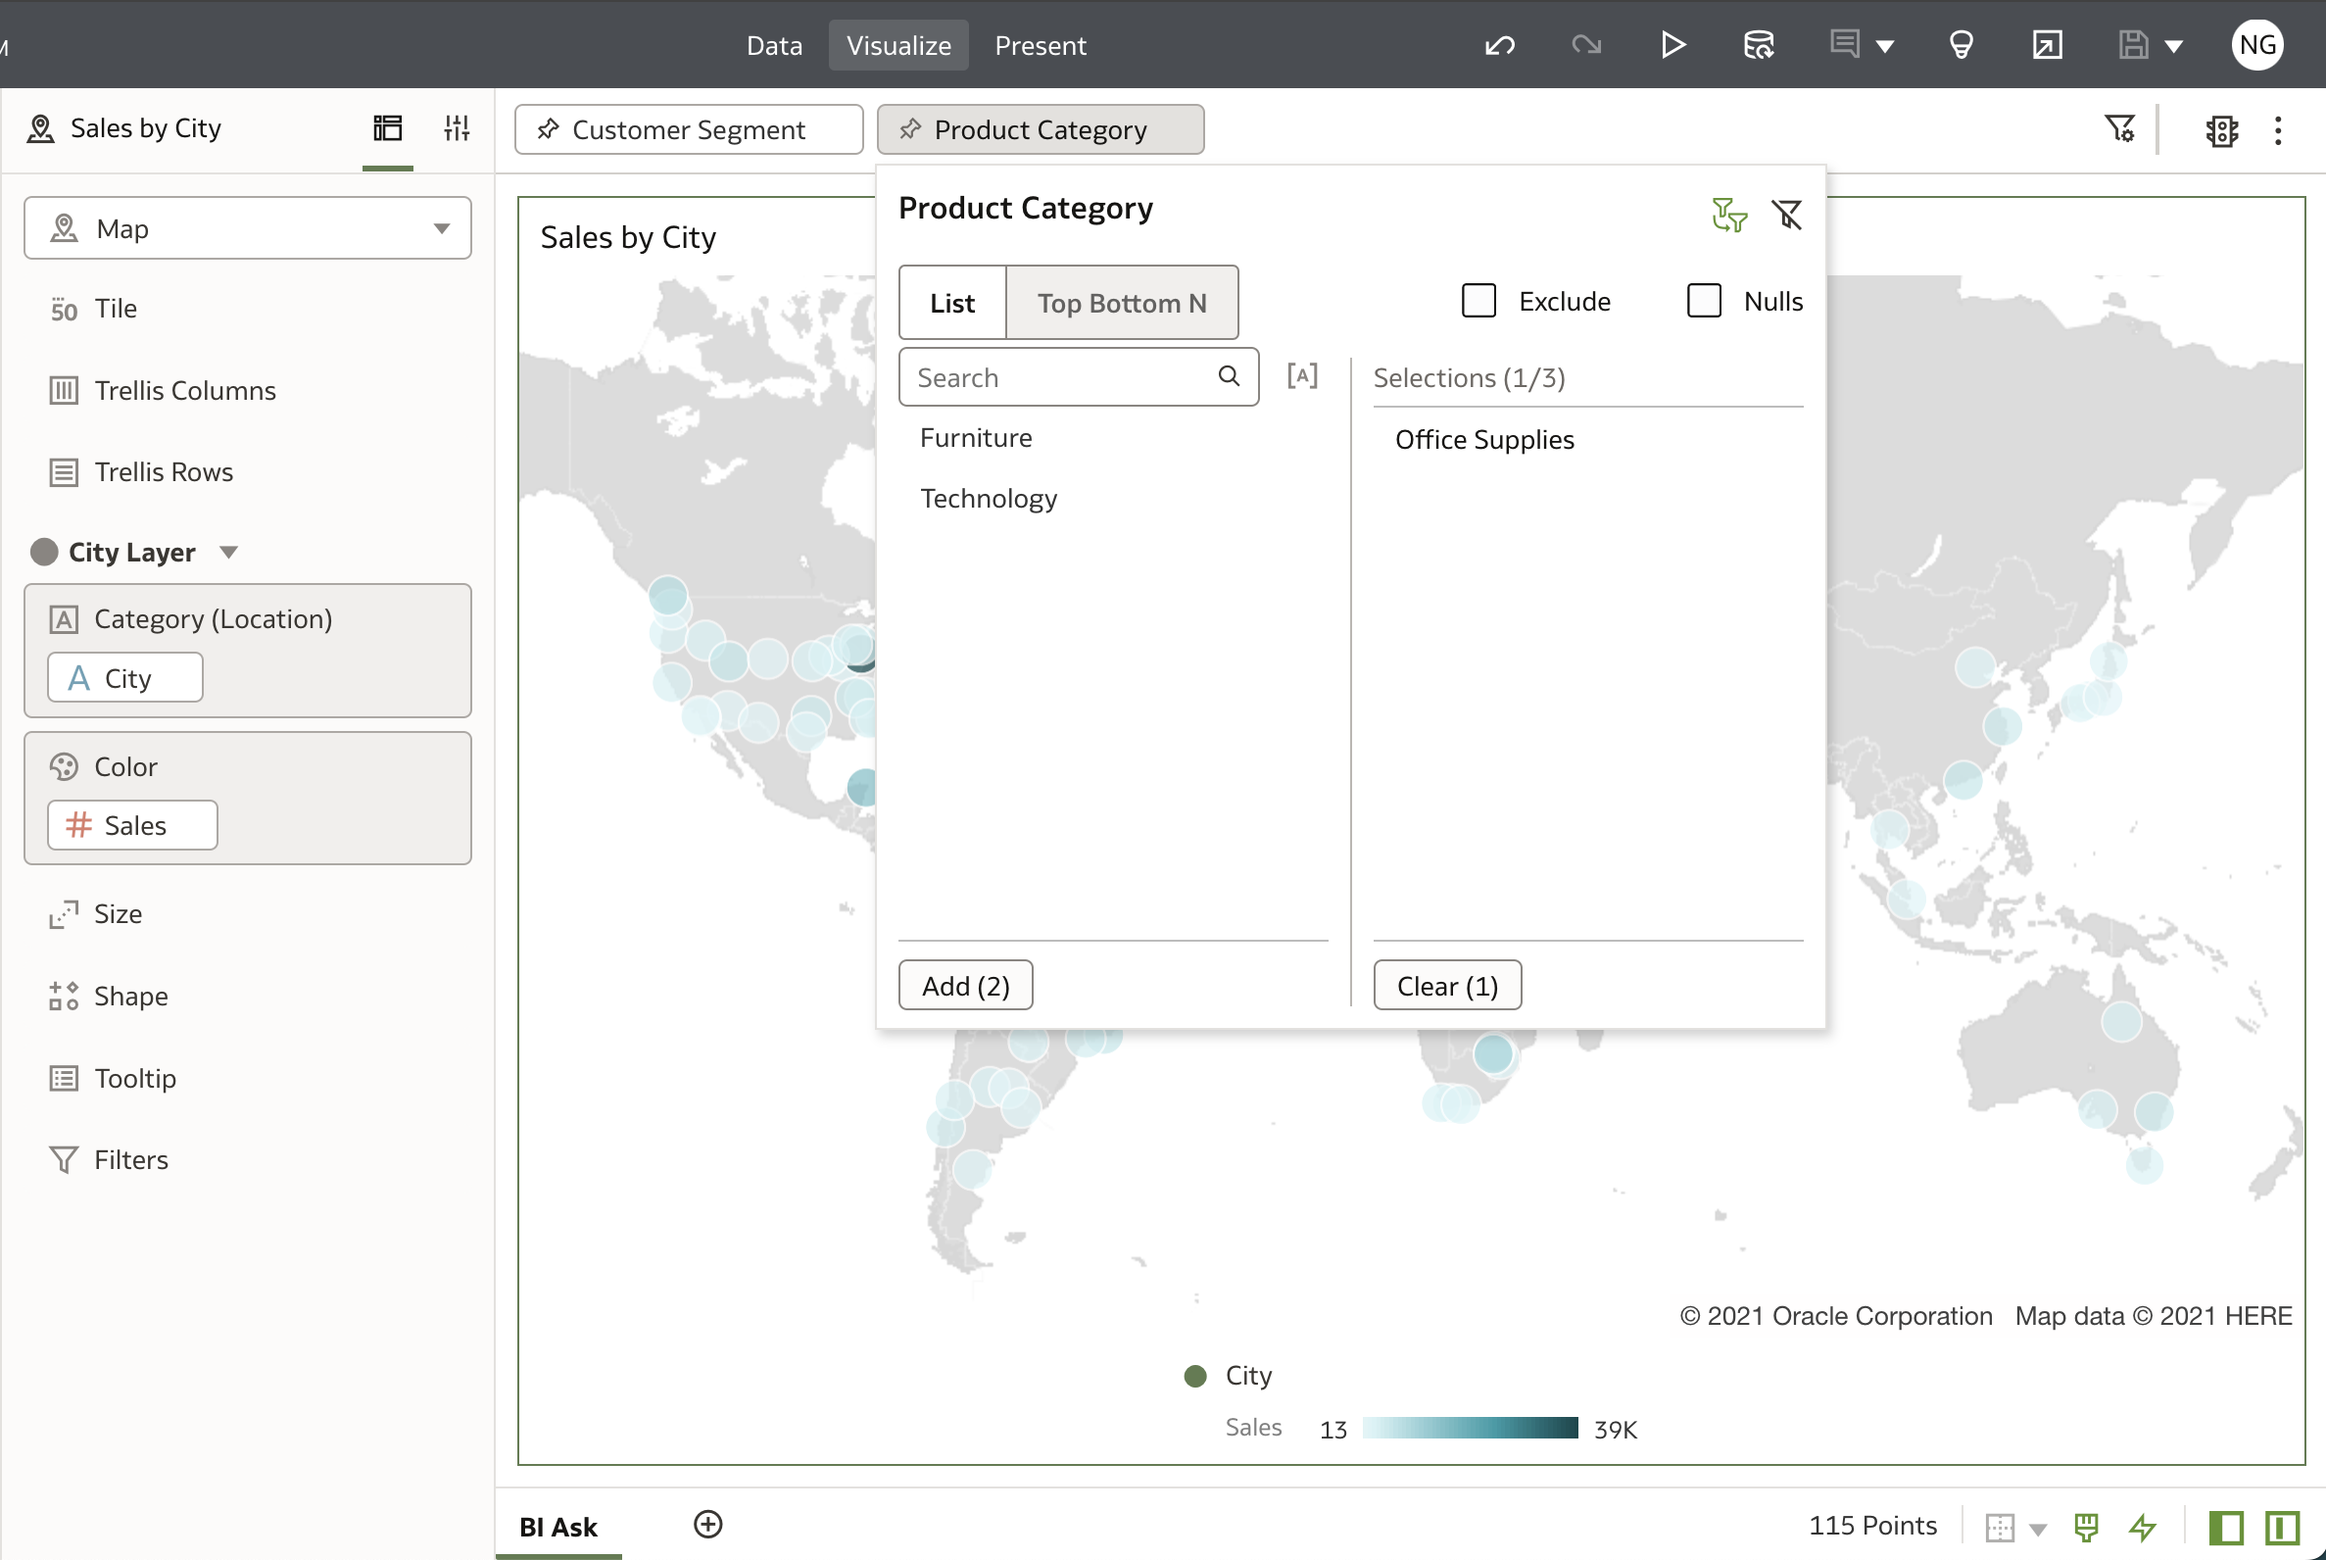
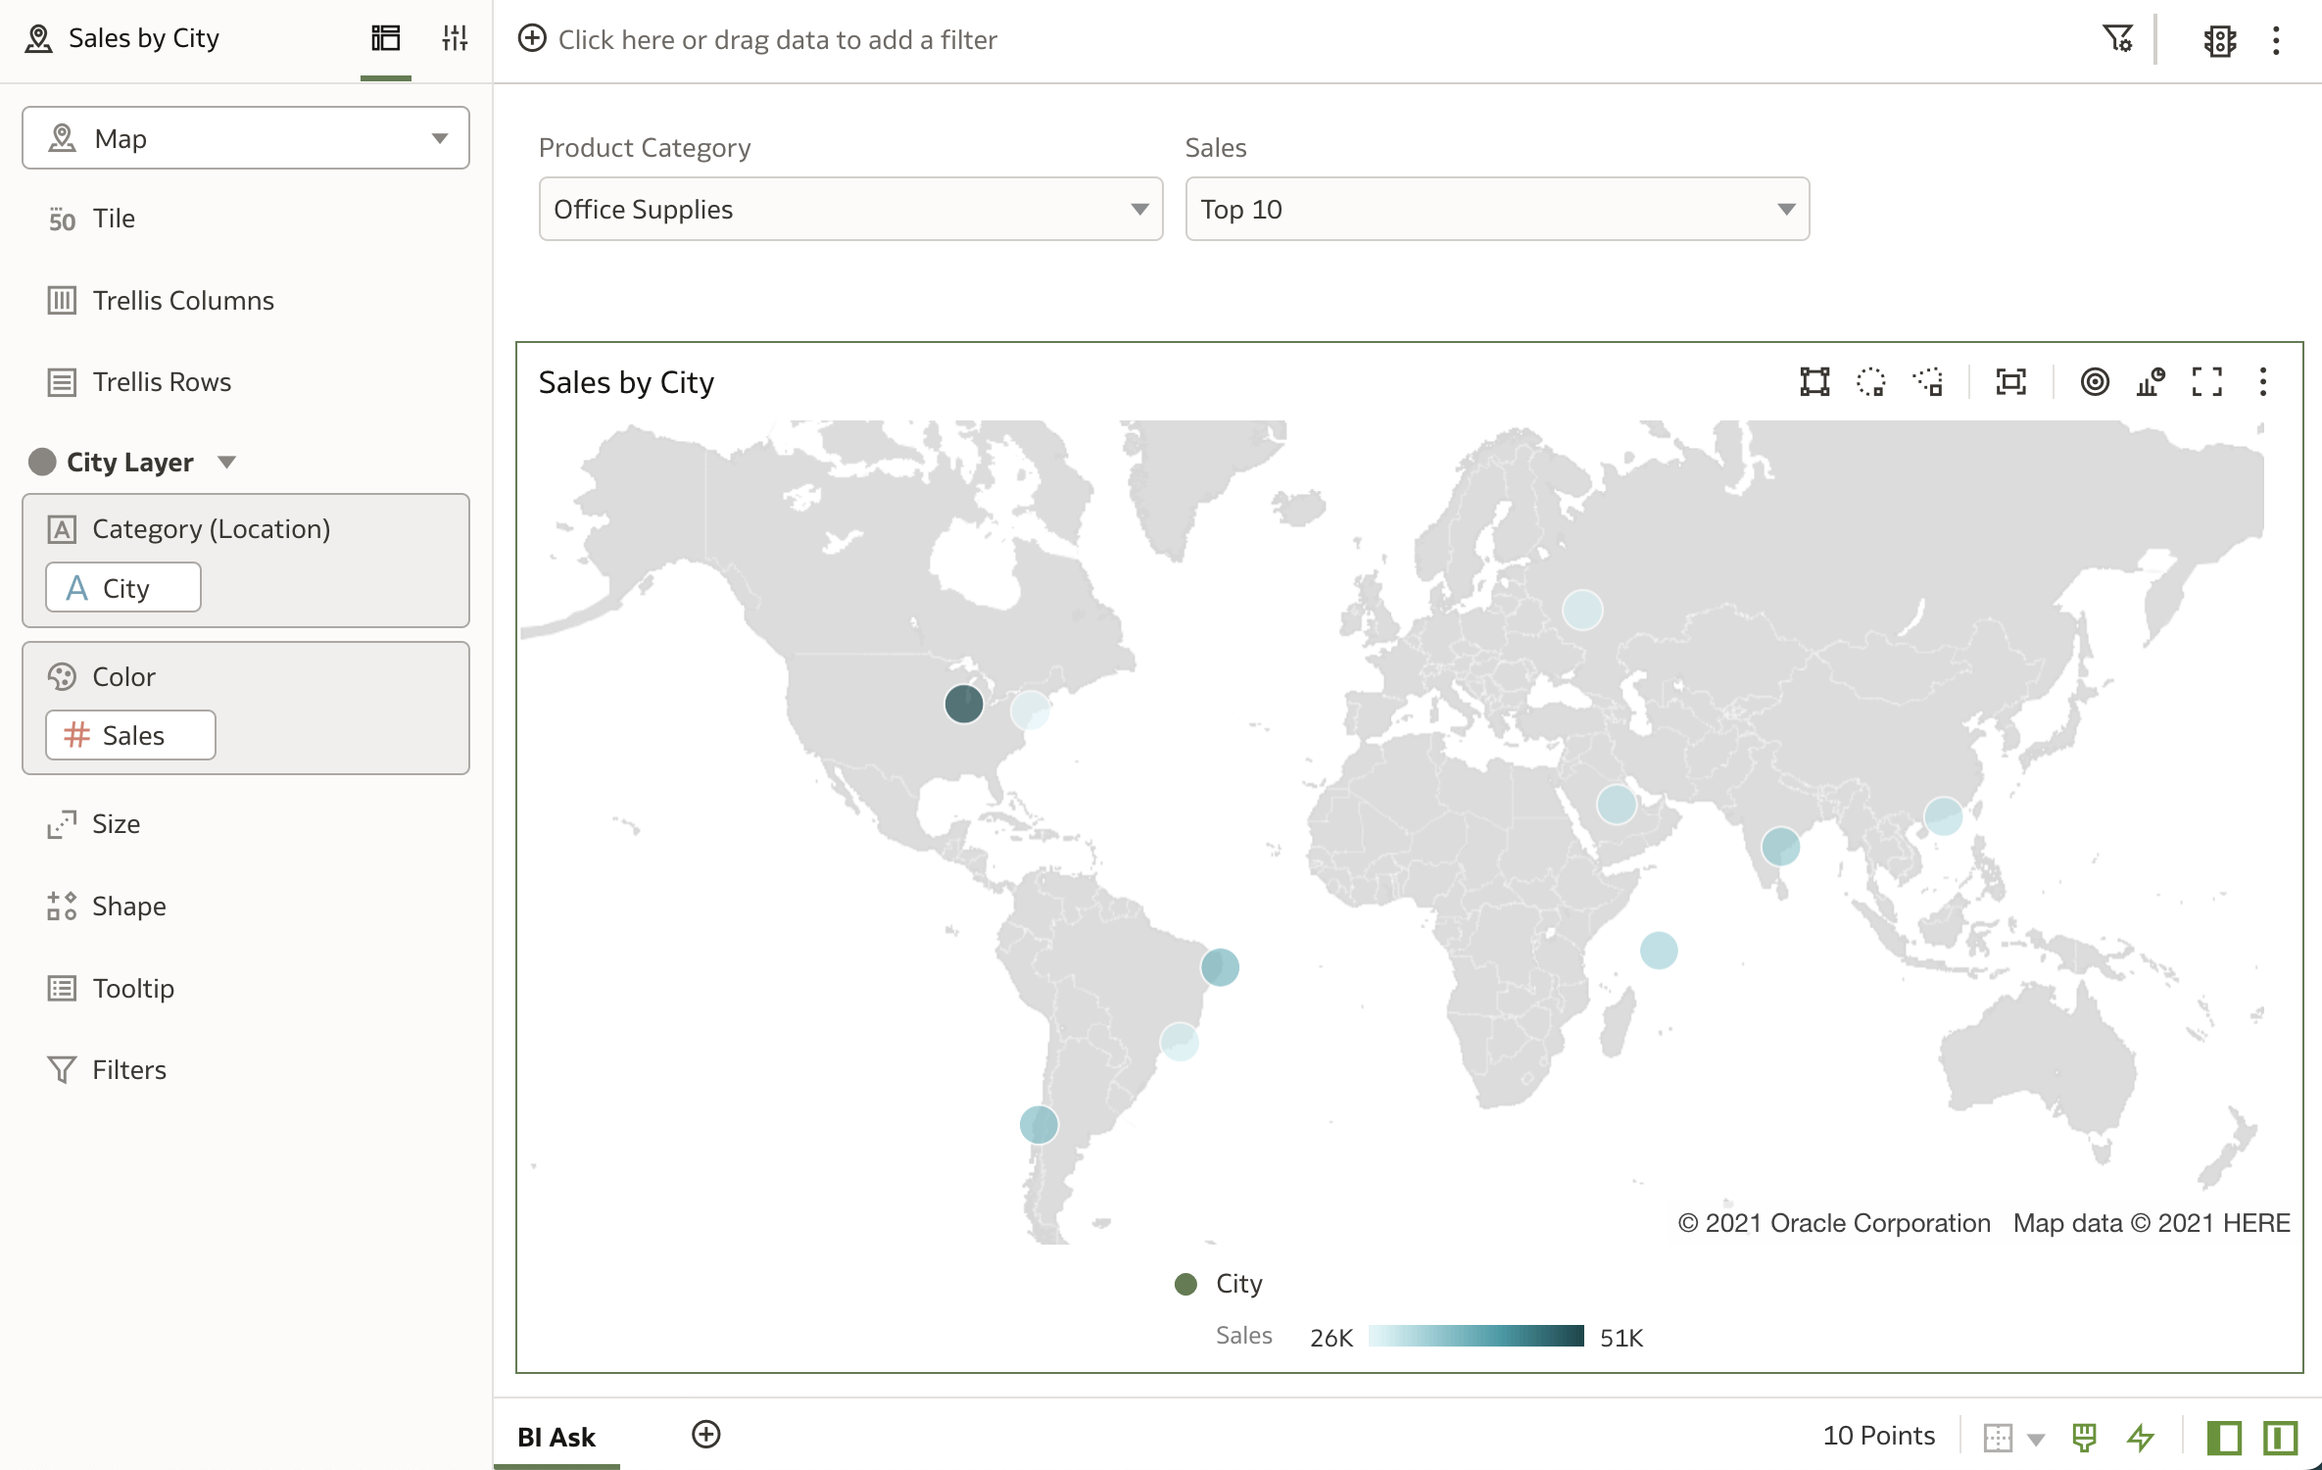
No WMS ID: Updates for Analytics Common lab dashboard-filters-export (#116)
* Draft 1 of Web Semantic Modeler workshop

* Removing unnecessary files

* Draft 2: All ss embedded

* Update: descriptive image names, removed unnecessary folders

* Removing provision-administer-oac - no longer needed

* Update introduction.md

* Removed desktop and sandbox folders

* Common Analytics labs

* Updates to common analytics labs

* Removed desktop and sandbox

* Update manifest.json

* Workshop tenancy folder for each common lab for testing + review

* WMS 11317: Final Draft

* Update create-physical-layer.md

* Update preview-d2.png

* updates

* Data Prep common lab

* Update data-prep.md

* Update data-prep.md

* Basic data preparation

* update

* Basic visualizations

* Create dv-overview.png

* edits to basic dv

* Custom Calculations and Map Backgrounds

* Image descriptions

* Update custom-calculation-map-background.md

* Update manifest.json

* Data Actions common lab

* Updated screenshots

* Latest updates

* file download added

* Update data-actions.md

* Multi-table dataset

* Updates to Semantic Modeler

* Update manifest.json

* Update multi-table-dataset.md

* Update introduction.md

* Update manifest.json

* Advanced Analytics

* Getting started with Oracle Analytics workshop

* Update

* Change Multi-table dataset to Data Blending

* Augmented Analytics

* Add brushing to basic dv

* Deleting workshop-tenancy folders. Used for testing only

* Updates to common labs

* Updates to getting started with OA

* Updated dataset links
[…]

diff --git a/common-labs/workshops-dashboard-filters-export/tenancy/index.html b/common-labs/workshops-dashboard-filters-export/tenancy/index.html
@@ -1,0 +1,62 @@
+<!DOCTYPE html>
+<html lang="en">
+
+<head>
+    <meta charset="utf-8">
+    <meta http-equiv="X-UA-Compatible" content="IE=edge">
+    <meta name="viewport" content="width=device-width, initial-scale=1">
+    <meta name="description" content="Oracle LiveLabs gives you access to Oracle's products to run a wide variety of labs and workshops; allowing you to experience our best technology, live!">
+    <title>Oracle LiveLabs</title>
+
+    <script src="https://oracle-livelabs.github.io/common/redwood-hol/js/jquery-1.11.0.min.js"></script>
+    <script src="https://oracle-livelabs.github.io/common/redwood-hol/js/jquery-ui-1.10.4.custom.js"></script>
+    <script src="https://oracle-livelabs.github.io/common/redwood-hol/js/main.min.js"></script>
+
+    <link rel="stylesheet" href="https://oracle-livelabs.github.io/common/redwood-hol/css/style.min.css" />
+    <link rel="shortcut icon" href="https://oracle-livelabs.github.io/common/redwood-hol/img/favicon.ico" />
+</head>
+
+<body>
+    <header class="hol-Header" role="banner">
+        <div class="hol-Header-wrap">
+            <div class="hol-Header-logo"><span>Oracle LiveLabs</span></div>
+            <a href="https://developer.oracle.com/livelabs" target="_blank" id="livelabs" title="Oracle LiveLabs"></a>
+            <div class="hol-Header-actions">
+                <button id="openNav" class="hol-Header-button hol-Header-button--menu rightNav" aria-label="Open Menu"
+                    title="Open Menu">
+                    <span class="hol-Header-toggleIcon"></span>
+                </button>
+            </div>
+        </div>
+    </header>
+
+    <div id="container">
+        <div id="leftNav">
+            <div id="toc"></div>
+        </div>
+        <div id="contentBox">
+            <main class="hol-Content" id="module-content"></main>
+        </div>
+    </div>
+
+      <footer class="hol-Footer">
+        <a class="hol-Footer-topLink" href="#top">Return to Top</a>
+        <div id="footer-banner"><div class="footer-row">
+          <div class="footer-content"><ul class="footer-links">
+              <li><a href="https://docs.oracle.com/pls/topic/lookup?ctx=en/legal&id=cpyr" target="_blank" aria-label="Open a new window to Oracle legal notices" data-lbl="copyright">© Oracle</a></li>
+              <li><a href="https://www.oracle.com/corporate/index.html" target="_blank" aria-label="Open a new window to learn more about oracle" data-lbl="about-oracle">About Oracle</a></li>
+              <li><a href="https://www.oracle.com/corporate/contact/" target="_blank" aria-label="Open a new window to contact oracle" data-lbl="contact-us">Contact Us</a></li>
+              <li class="footer-links-break"></li>
+              <li><a href="https://docs.oracle.com/en/browseall.html" target="_blank" aria-label="Open a new window to products a-z" data-lbl="products-a-z">Products A-Z</a></li>
+              <li><a href="https://www.oracle.com/legal/privacy/" target="_blank" aria-label="Open a new window to read more about Oracle terms of use and privacy" data-lbl="terms-of-use-and-privacy">Terms of Use & Privacy</a></li>
+              <li><a href="https://www.oracle.com/legal/privacy/privacy-policy.html#11" target="_blank" aria-label="Open a new window to read more about managing Oracle cookie preferences" data-lbl="cookie-preferences">Cookie Preferences</a></li>
+              <li><a href="https://www.oracle.com/legal/privacy/marketing-cloud-data-cloud-privacy-policy.html#adchoices" target="_blank" aria-label="Open a new window to ad choices" data-lbl="ad-choices">Ad Choices</a></li>
+              <li class="footer-links-break"></li><li class="last"><a href="https://docs.oracle.com/pls/topic/lookup?ctx=en/legal&id=cpyr" target="_blank" aria-label="Open a new window to Oracle legal notices" data-lbl="copyright">© Oracle</a></li>
+            </ul>
+          </div>
+        </div>
+      </div>
+    </footer>
+</body>
+
+</html>

diff --git a/common-labs/dashboard-filters-export/dashboard-filters-export.md b/common-labs/dashboard-filters-export/dashboard-filters-export.md
@@ -21,33 +21,49 @@ This lab assumes you have:
 * [Sample Order Lines DS](https://objectstorage.us-phoenix-1.oraclecloud.com/p/TBMVACa7qZgj8ijJ3j5wlILzaVVtw1jo6n4rO8mREaAKjRoWAPX0OVTaEL39buPQ/n/idbwmyplhk4t/b/LiveLabsFiles/o/Sample%20Order%20Lines%20DS.xlsx)
 
 ## Task 1: Dashboard Filters
-In this section, we will explore different ways to create and apply dashboard filters.
+In this section, we will explore the dashboard filter visualization.
 
-1. Click and drag **Customer Segment** from **Sample Order Lines DS** to the canvas filter bar.
+1. To add the **Dashboard Filters** visualization, click **Visualizations** from the **Data Panel** and scroll down to the **Dashboard Controls** section.
 
-  ![Click and drag](images/cus-seg-filter.png)
+  ![Dashboard Controls](images/dashboard-controls.png)
 
-2. Select the values you want to filter for. For this lab, select **Consumer**.
+2. Click and drag the **Dashboard Filters** visualization onto the canvas above the map visualization. The benefit of using dashboard filters is that we can filter the dashboard based on the attributes we want to explore directly on the canvas.
 
-  ![Select Consumer](images/consumer-filter.png)
+  ![Dashboard Filters](images/drag-dashboard-filters.png)
 
-3. To add another filter, click the **Add Filter** button. Expand the **Sample Order Lines DS** data file and select **Product Category**.
+3. To add filters, double-click or drag and drop one or more dates, attributes, or measure columns to the dashboard filter. For this lab, double-click the **Product Category** column.
 
-  ![Add filter](images/add-filter.png)
+  ![Product Category](images/product-category.png)
 
-4. Select **Office Supplies** and click away to apply the filter.
+4. Then double-click **Sales** to add this measure as a filter.
 
-  ![Office Supplies filter](images/office-supplies-filter.png)
+  ![Double-click Sales](images/dc-sales.png)
 
-5. If you want to apply a filter to all canvases, hover over the filter and click **Pin to All Canvases,** represented by the pin icon. Your dashboard now as filters applied to **Customer Segment** and **Product Category**.
+5. Let's say we wanted to see the top 10 cities by sales. Click **Full Range** under **Sales** to open the Sales filter options.
 
-  ![Pin filter](images/pin-filter.png)
+  ![Click full range](images/full-range.png)
 
-6. Rename the canvas as **BI Ask** and **Save** the workbook.
+6. Here you have two options: You can either filter the Sales by **Range** if you want to filter for a specific range of sales or you can filter for the top or bottom counts. Since we want to look at the top 10, click **Top Bottom N**.
+
+  ![Click Top Bottom N](images/top-bottom-n.png)
+
+7. Here, you can modify the settings for this filter. You can choose Top or Bottom for **Method**, change the **Count** and select which attributes you want the filter to be based on. We'll stick with the default settings.
+
+  ![Top Bottom options](images/top-bottom-options.png)
+
+8. Let's say that instead of looking at the top 10 sales for all products, we want to filter for Office Supplies. Click the **Product Category** filter drop-down and select **Office Supplies**. Click away to apply the filter.
+
+  ![Select Office Supplies](images/select-office-supplies.png)
+
+9. The result shows the Top 10 Sales by City for **Office Supplies**.
+
+  ![Top 10 results](images/top-ten-results.png)
+
+10. Rename the canvas as **BI Ask** and **Save** the workbook.
 
   ![Rename workbook](images/rename-save.png)
 
-7. Name the workbook **BI Ask** and click **Save**.
+11. Name the workbook **BI Ask** and click **Save**.
 
   ![Save workbook](images/save-workbook.png)
 
